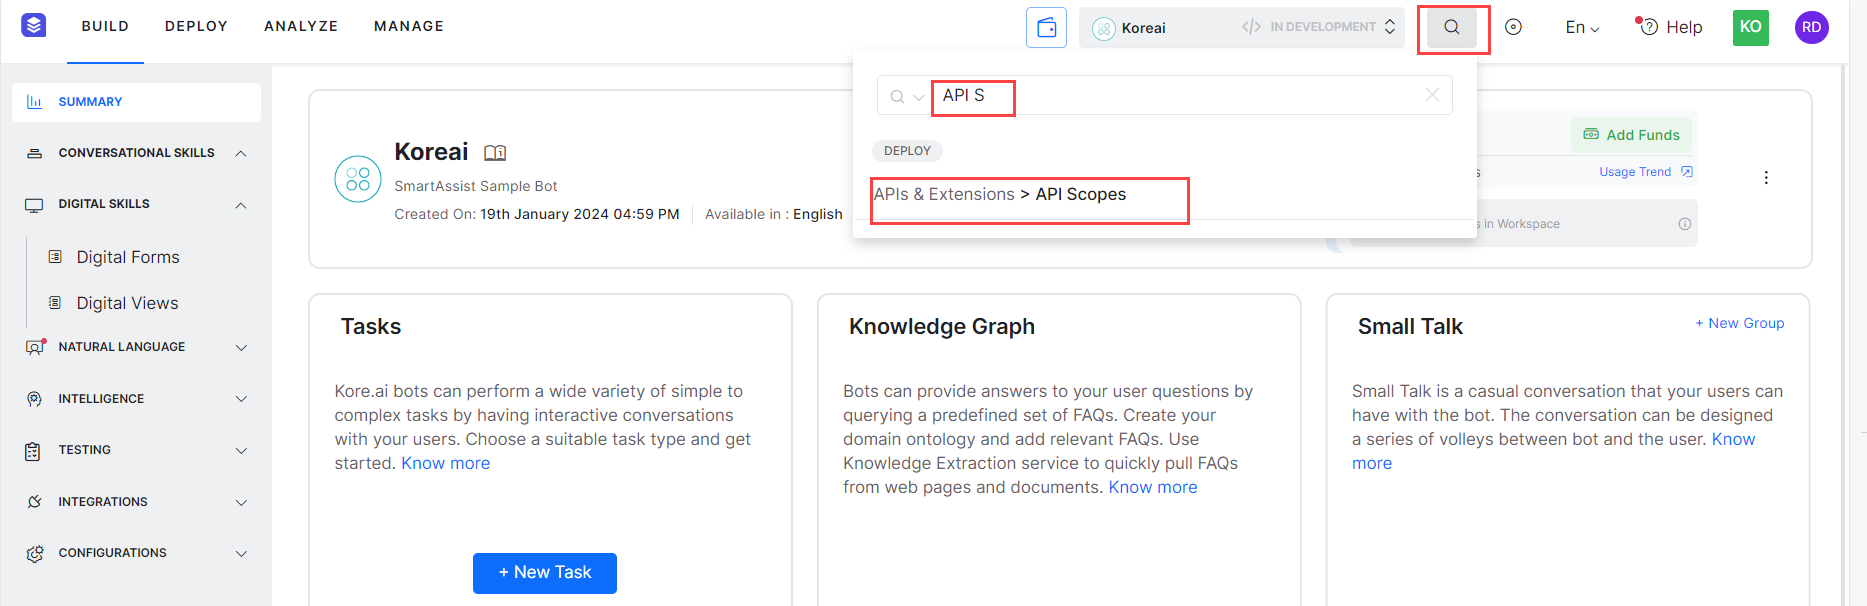
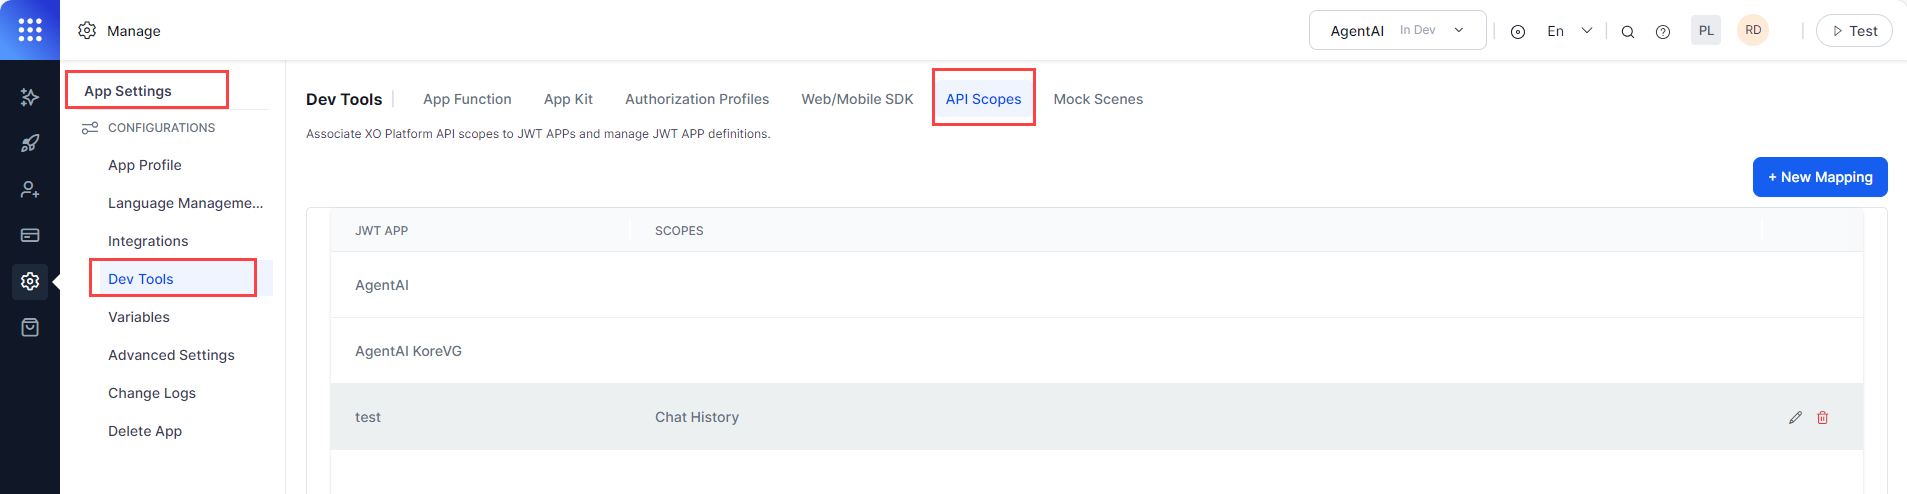
updated step-5

diff --git a/docs/xo/contactcenter/integrations/voice-automation-with-zoom-cc/kore-voice-automation-with-zoom-contact-center.md b/docs/xo/contactcenter/integrations/voice-automation-with-zoom-cc/kore-voice-automation-with-zoom-contact-center.md
@@ -163,103 +163,76 @@ After creating an Experience Flow, you must attach a DID Number to this flow. (S
 
 This section explains the process of fetching the details and summary of the conversation between the bot and the customer.
 
-Steps to fetch Conversation Details and Summary:
+**Steps**
 
-1. Sign in to **SmartAssist**.
+1. Sign in to **UXO**.
+2. Go to **Contact Center AI** > **Analytics** > **Contact Center** > **Interactions** and ensure there are call records.  
+<img src="../images/contact-center-interactions-15.png" alt="contact-center-interactions" title="contact-center-interactions" style="border: 1px solid gray; zoom:80%;">
 
-2. Go to **Dashboard** > **Interactions** and ensure there are call records.  
-<img src="../images/dashboard-interactions-15.png" alt="dashboard-interactions" title="dashboard-interactions" style="border: 1px solid gray; zoom:80%;">
+3. Go to **Settings** > **App Settings** > **Dev Tools**, and click **API Scopes**.  
+<img src="../images/api-scopes-16.png" alt="api-scopes" title="api-scopes" style="border: 1px solid gray; zoom:80%;">
 
-3. Sign in to **[SmartAssist botbuilder](https://smartassist.kore.ai/botbuilder)** using the same credentials.
+4. Click **+ New Mapping**.
+5. Select an **app name** under the **JWT App** list.  
+<img src="../images/jwt-app-app-name-17.png" alt="jwt-app-app-name" title="jwt-app-app-name" style="border: 1px solid gray; zoom:80%;">
 
-4. Click the **Instance Bot**.  
+6. Enable the **Chat History** option under **Automation**.
+7. Click **Save**.
+8. Go to **Generative AI** > **Models Library**, locate **Kore.ai XO GPT**, and click **Enable Now.**  
+<img src="../images/enable-koreai-xo-gpt-18.png" alt="enable-koreai-xo-gpt" title="enable-koreai-xo-gpt" style="border: 1px solid gray; zoom:80%;">
 
-    !!! note
-        You can identify the instance bot by its unique symbol and matching name with the organization. In the above screenshot, Kore.ai bot is the instance bot as it matches with the organization name and has a unique symbol.
-
-5. Go to **API Scopes**. To do so:
-
-    - 5.1. Click the **search** button and enter **API Scopes** in it:  
-    <img src="../images/api-scopes-16.png" alt="api-scopes" title="api-scopes" style="border: 1px solid gray; zoom:80%;">
-
-    **Or**
-
-    - 5.2. Click **Deploy** > **APIs & Extensions** > **API Scopes**.  
-    <img src="../images/apis-and-extensions-api-scopes-17.png" alt="apis-and-extensions-api-scopes" title="apis-and-extensions-api-scopes" style="border: 1px solid gray; zoom:80%;">
-
-6. Click **Create API Scope**.  
-<img src="../images/create-api-scopes-18.png" alt="create-api-scopes" title="create-api-scopes" style="border: 1px solid gray; zoom:80%;">
-
-7. Enter the **Instance Bot** name in the **App** field and select the **Chat History** option.  
-<img src="../images/new-api-scope-mapping-19.png" alt="new-api-scope-mapping" title="new-api-scope-mapping" style="border: 1px solid gray; zoom:80%;">
-
-8. Click **Save**.
-
-9. Go to **Build** > **Natural Language** > **Generative AI & LLM**, locate **Kore.ai XO GPT**, and click **Enable Now**.  
-<img src="../images/generative-ai-and-llm-20.png" alt="generative-ai-and-llm" title="generative-ai-and-llm" style="border: 1px solid gray; zoom:80%;">
-
-10. On the **Kore.ai XO GPT** page, select:  
+9. On the **Kore.ai XO GPT** page, select:
     
-    - 10.1. Models.
+    9.1 Models.
 
-    - 10.2. Fine-tuned model for Summarizing Conversation.
+    9.2 Fine-tuned model for Summarizing Conversation.
+
+    9.3 Please read through the LLM & Generative Policy guidelines and provide your consent to enable the Integration.  
+    <img src="../images/llm-genai-policy-guidelines-19.png" alt="llm-gen-policy-guidelines" title="llm-gen-policy-guidelines" style="border: 1px solid gray; zoom:80%;">
+
+10. Click **Save**.
+11. Go to **Generative AI** > **GenAI Features**, and click the **Co-Pilot** section.
+12. Enable **Conversation Summary**. To enable, select a model from the **Select Model** list, and then click the **enable** toggle.
+13. Go to **Deploy** > **Publish** and click **Proceed** to publish your bot.  
+<img src="../images/publish-your-bot-20.png" alt="publish-your-bot" title="publish-your-bot" style="border: 1px solid gray; zoom:80%;">
+
+14. Enter a comment in the **Comments** box, and click **Confirm**.  
+<img src="../images/confirm-publishing-your-bot-21.png" alt="confirm-publishing-your-bot" title="confirm-publishing-your-bot" style="border: 1px solid gray; zoom:80%;">
+
+    14.1 Close the message that confirms publishing of your Virtual Assistant.  
+    <img src="../images/closing-va-publishing-confirmation-message-22.png" alt="closing-va-publishing-confirmation-message" title="closing-va-publishing-confirmation-message" style="border: 1px solid gray; zoom:80%;">
+
+15. Copy the **curl** from the [Conversation Details and Summary API](https://developer.kore.ai/docs/bots/api-guide/conversation-details-summary-api/).
+16. Go to **Postman**, paste the **curl** copied from the API, and then:
+
+    16.1 Replace the **botID** with the **Bot ID** value copied from **UXO**. \
+Follow these steps to get the **botID**:
+        
+    16.1.1 Sign in to **UXO**.
     
-    - 10.3. Please read through the LLM & Generative Policy guidelines and provide your consent to enable the Integration.  
-    <img src="../images/koreai-xo-gpt-21.png" alt="koreai-xo-gpt" title="koreai-xo-gpt" style="border: 1px solid gray; zoom:80%;">
+    16.1.2 Go to **Contact Center AI** > **Flows & Channels** > **Digital**.  
+        <img src="../images/contact-center-flowsandchannels-digital-23.png" alt="contact-center-flowsandchannels-digital" title="contact-center-flowsandchannels-digital" style="border: 1px solid gray; zoom:80%;">
 
-11. Click **Save**.
-
-12. Go to the **Co-Pilot** section and enable **Conversation Summary**. To enable, select a model from the **Select Model** list and then click the **enable** toggle.  
-<img src="../images/llm-integration-22.png" alt="llm-integration" title="llm-integration" style="border: 1px solid gray; zoom:80%;">  
-<img src="../images/conversation-summary-23.png" alt="conversation-summary" title="conversation-summary" style="border: 1px solid gray; zoom:80%;">
-
-13. Go to **Deploy** and click **Publish** to publish your bot.  
-<img src="../images/publish-bot-24.png" alt="publish-bot" title="publish-bot" style="border: 1px solid gray; zoom:80%;">
-
-14. Click **Proceed**.  
-<img src="../images/proceed-with-publish-25.png" alt="proceed-with-publish" title="proceed-with-publish" style="border: 1px solid gray; zoom:80%;">
-
-15. Enter a comment in the **Comment** box, and click **Confirm**.  
-<img src="../images/comment-and-confirm-26.png" alt="comment-and-confirm" title="comment-and-confirm" style="border: 1px solid gray; zoom:80%;">
-    - 15.1. Close the message that confirms publishing of your Virtual Assistant.  
-    <img src="../images/publish-confirmation-27.png" alt="publish-confirmation" title="publish-confirmation" style="border: 1px solid gray; zoom:80%;">
-
-16. Copy the **curl** from the [Conversation Details and Summary API](https://developer.kore.ai/docs/bots/api-guide/conversation-details-summary-api/).
-
-17. Go to **Postman**, paste the **curl** copied from the API, and then:
-
-    17.1. Replace the **botID** with the **Bot ID** value copied from **SmartAssist**. 
+    16.1.3 Click **Web/Mobile Client** under **Configured**.
     
-    Follow these steps to get the **botID**:
+    16.1.4 On the **Web/Mobile Client** configuration page, click to expand the **JWT** **App Details** section.  
+        <img src="../images/expand-jwt-app-details-24.png" alt="expand-jwt-app-details" title="expand-jwt-app-details" style="border: 1px solid gray; zoom:80%;">
 
-     - 17.1.1. Sign in to **SmartAssist**.
-
-     - 17.1.2. Go to **Configuration** > **System Setup** > **Channels**.
-
-     - 17.1.3. Click **Chat** > **Web/Mobile Client**.  
-        <img src="../images/chat-web-mobile-client-28.png" alt="chat-web-mobile-client" title="chat-web-mobile-client" style="border: 1px solid gray; zoom:80%;">
-
-     - 17.1.4. On the **Web/Mobile Client** configuration page, click to expand the **App Details** section.  
-        <img src="../images/api-details-29.png" alt="api-details" title="api-details" style="border: 1px solid gray; zoom:80%;">
-
-     - 17.1.5. Scroll down to the **Bot ID** section, and click the **Copy** button to copy the botID value.  
-        <img src="../images/copy-botid-value-30.png" alt="
-        " title="
-        " style="border: 1px solid gray; zoom:80%;">
-
-    17.2. Copy the **sessionID** from **SmartAssist**. 
-     Follow these steps to get the **sessionID**:
-
-     - 17.2.1. Sign in to **SmartAssist**.
-
-     - 17.2.2. Go to **Dashboard** > **Interactions**.
-
-     - 17.2.3. Click the log for which you want to get the details.  
-        <img src="../images/get-conversation-details-31.png" alt="get-conversation-details" title="get-conversation-details" style="border: 1px solid gray; zoom:80%;">
+    16.1.5 Scroll down to the **Bot ID** section, and click the **Copy** button to copy the **botID** value.
+  
+   16.2 Copy the **sessionID** from **UXO**.  
+   **Follow these steps** to get the **sessionID**:
+    
+16.2.1 Sign in to **UXO**.
+    
+16.2.2 Go to **Contact Center AI** > **Analytics** > **Contact Center** > **Interactions**.
+    
+   16.2.3 Click the log for which you want to get the details.  
+        <img src="../images/interaction-log-details-25.png" alt="interaction-log-details" title="interaction-log-details" style="border: 1px solid gray; zoom:80%;">
  
-     - 17.2.4. On the **Insights to Logs** page, click **Identifiers**, and then click the **copy** symbol against the **Session ID** value.  
-        <img src="../images/sessionid-details-32.png" alt="sessionid-details" title="sessionid-details" style="border: 1px solid gray; zoom:80%;">
+   16.2.4 On the **Insights to Logs** page, click **Identifiers**, and then click the **copy** symbol against the **Session ID** value.  
+        <img src="../images/insights-to-logs-sessionid-26.png" alt="insights-to-logs-sessionid" title="insights-to-logs-sessionid" style="border: 1px solid gray; zoom:80%;">
 
-    17.3. Generate and copy the **JWT token** by following [this document](https://docsinternal-kore.github.io/docs/xo/apis/automation/api-introduction/#generating-the-jwt-token).
+   16.3 Generate and copy the **JWT token** by following [this document](https://docsinternal-kore.github.io/docs/xo/apis/automation/api-introduction/#generating-the-jwt-token).
 
-18. Run the modified **curl** to get the conversation details and summary of a session.
+17. Run the modified **curl** to get the conversation details and summary of a session.
